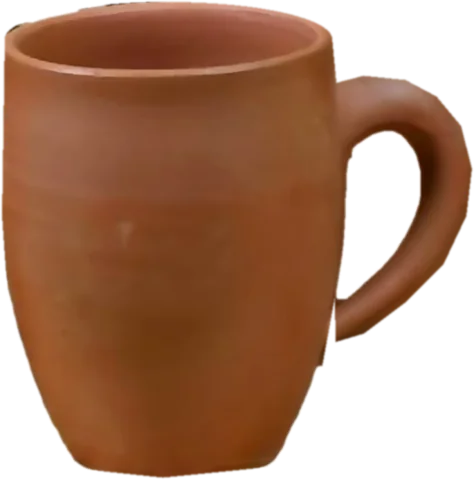
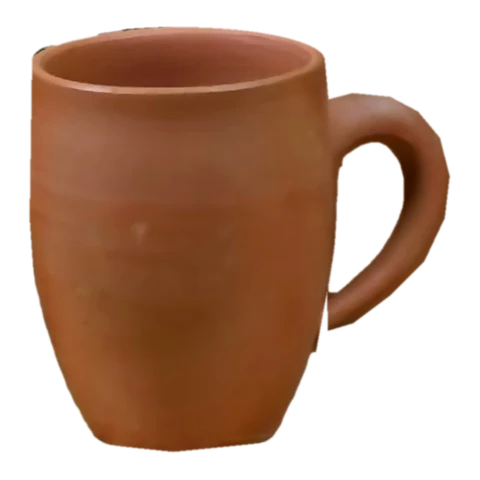
bulk page fixes

Changed region(s): [[0.0, 0.0, 1.0, 1.0], [0.2658, 0.4688, 0.2954, 0.5]]

diff --git a/src/lib/bulk-singles.test.ts b/src/lib/bulk-singles.test.ts
@@ -38,11 +38,14 @@ describe("withSingles", () => {
     expect(items.map((i) => i.slug)).toEqual(["handi-2-5l"]);
   });
 
-  it("falls back to the family's shop photo when there is no single photo", () => {
+  it("matches the shop's Kullad spelling and uses the single-piece photo", () => {
     const { items } = withSingles(
-      [item("kullad-set-of-6-0-5", "Kullad Set of 4", "kulhad.png")],
+      [item("kullad-set-of-6-0-5", "Kullad Set of 4", "pack.png")],
       make,
     );
-    expect(items[0]).toMatchObject({ slug: "bulk-kulhad-single", img: "kulhad.png" });
+    expect(items[0]).toMatchObject({
+      slug: "bulk-kulhad-single",
+      img: "/media/bulk/kulhad-single.webp",
+    });
   });
 });

diff --git a/src/lib/bulk-singles.ts b/src/lib/bulk-singles.ts
@@ -20,7 +20,13 @@ export interface BulkSingle {
 
 export const BULK_SINGLES: BulkSingle[] = [
   // The shop spells it "Kullad"; match kulhad / kullad / kulad alike.
-  { slug: "bulk-kulhad-single", name: "Kullad", matches: /\bkul+h?ad/i, img: null, priceInr: 160 },
+  {
+    slug: "bulk-kulhad-single",
+    name: "Kullad",
+    matches: /\bkul+h?ad/i,
+    img: "/media/bulk/kulhad-single.webp",
+    priceInr: 160,
+  },
   {
     slug: "bulk-glass-single",
     name: "Glass",
